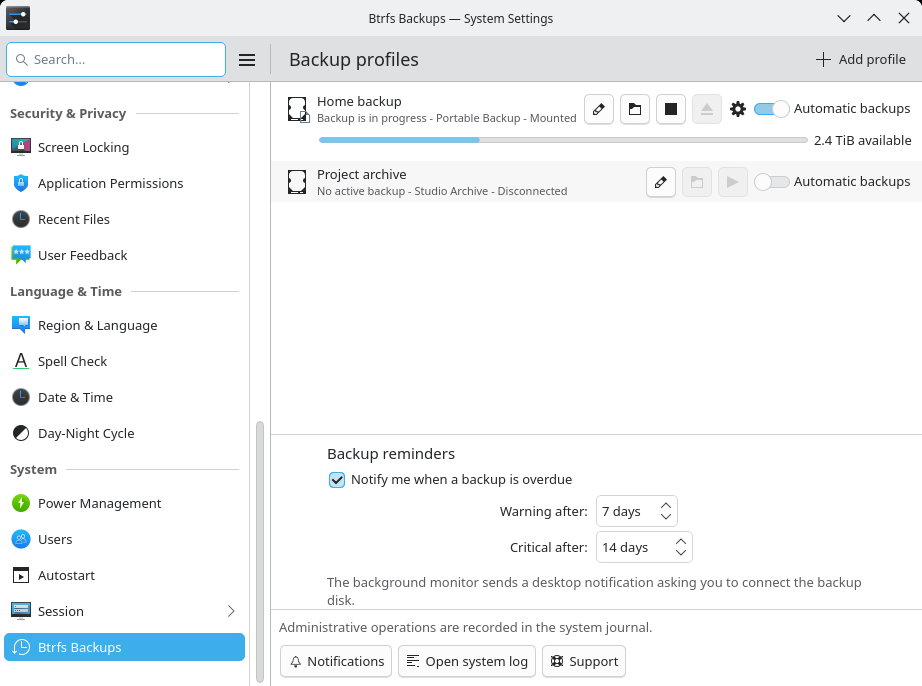
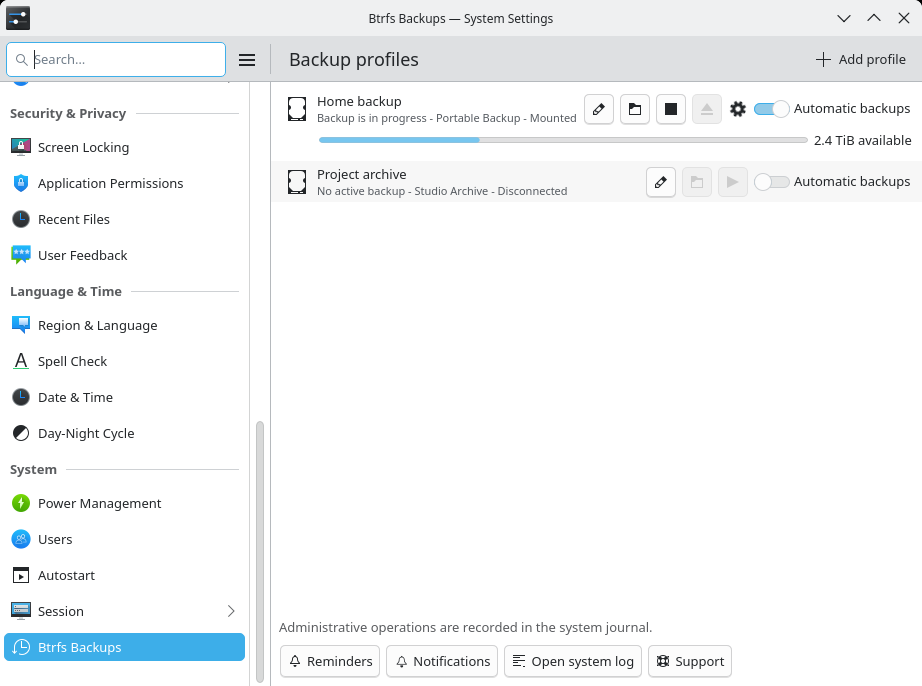
docs(kde): refresh notification screenshots

diff --git a/tools/screenshots/render_tests.py b/tools/screenshots/render_tests.py
@@ -30,12 +30,17 @@ class ScenarioSpecsTests(unittest.TestCase):
         })
         outputs = [spec["output"] for spec in specs]
         self.assertEqual(len(outputs), len(set(outputs)))
-        self.assertEqual(len(outputs), 18)
+        self.assertEqual(len(outputs), 19)
 
     def test_filters_kcm_page(self) -> None:
         self.assertEqual(scenario_specs("kcm", "history"), [{
             "kind": "system-settings", "mode": "connected", "page": "history",
             "output": "system-settings-history.png",
+        }])
+
+        self.assertEqual(scenario_specs("kcm", "notification-settings"), [{
+            "kind": "system-settings", "mode": "connected", "page": "notification-settings",
+            "output": "system-settings-notification-settings.png",
         }])
 
     def test_filters_top_level_group(self) -> None:

diff --git a/tools/screenshots/render.py b/tools/screenshots/render.py
@@ -56,6 +56,7 @@ def scenario_specs(only: str, kcm_page: str) -> list[dict[str, str]]:
             "profile-details": (("connected", "system-settings-profile-details.png"),),
             "profile-settings": (("connected", "system-settings-profile-settings.png"),),
             "history": (("connected", "system-settings-history.png"),),
+            "notification-settings": (("connected", "system-settings-notification-settings.png"),),
             "new-profile": (("connected", "system-settings-new-profile.png"),),
             "new-profile-adopt": (("connected", "system-settings-new-profile-adopt.png"),),
             "new-profile-adopt-partition": (("connected", "system-settings-new-profile-adopt-partition.png"),),

diff --git a/tools/screenshots/kcm-navigate.py b/tools/screenshots/kcm-navigate.py
@@ -37,3 +37,5 @@ elif page in {"profile-details", "profile-settings", "history"}:
         click(800, 95)
     elif page == "history":
         click(680, 95)
+elif page == "notification-settings":
+    click(380, 700)

diff --git a/README.md b/README.md
@@ -216,6 +216,11 @@ notification without requiring the KCM to remain open.
 
 [![Successful, cancelled and failed backup runs in System Settings](docs/images/system-settings-history.png)](docs/images/system-settings-history.png)
 
+Overdue-backup reminders and low-space warning and critical thresholds are
+configured globally on a dedicated notifications page.
+
+[![Configuring overdue backup and target free-space notifications](docs/images/system-settings-notification-settings.png)](docs/images/system-settings-notification-settings.png)
+
 [![A completed backup notification in Plasma](docs/images/notification-completed.png)](docs/images/notification-completed.png)
 
 ### Browse And Restore
